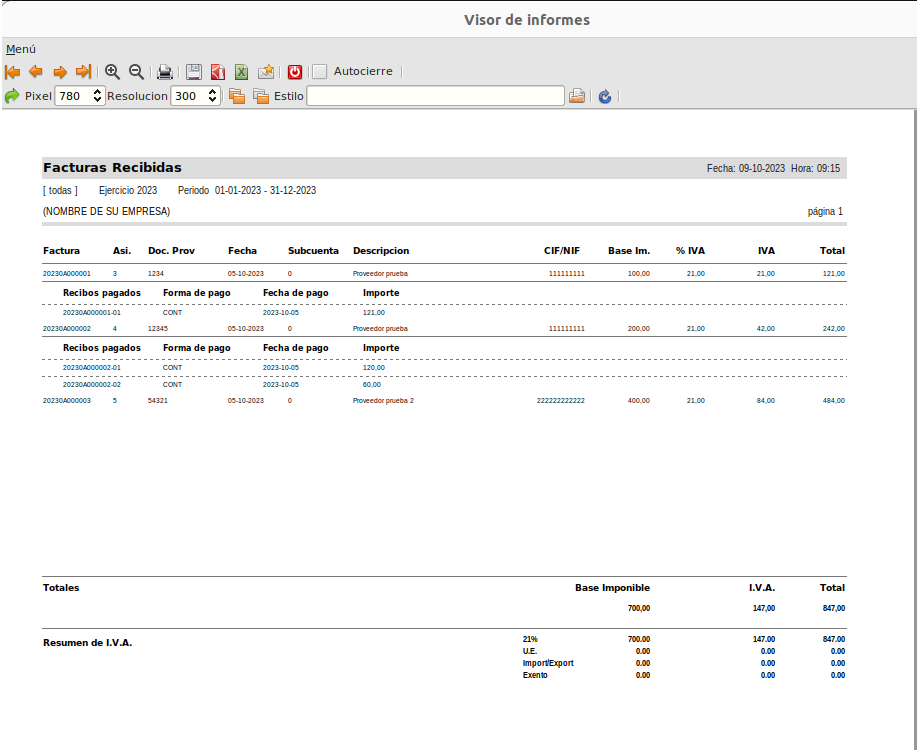
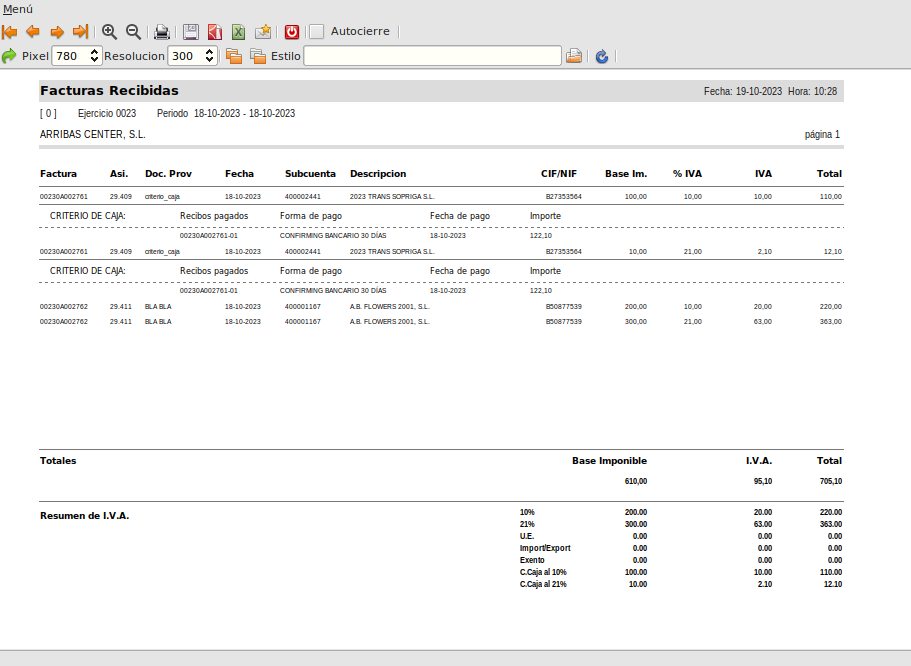
Actualizacion capturas manual criterio caja

diff --git a/extensiones/criterio_caja/index.md b/extensiones/criterio_caja/index.md
@@ -24,7 +24,7 @@ Ruta: **Área de Facturación -> Facturación -> Facturas de compra**
 
 ![Información del SII](./img/facturasii.png)
 
-Vamos a guardar algún recibo de pago asociado a la factura para visualizar cómo se verá en el informe.
+Vamos a guardar algún recibo de pago asociado a la factura para visualizar cómo se verá en el informe. El recibo debe de estar pagado para ser visualizado.
 
 Ruta: **Área de Facturación -> Tesorería -> Recibos de compra**
 
